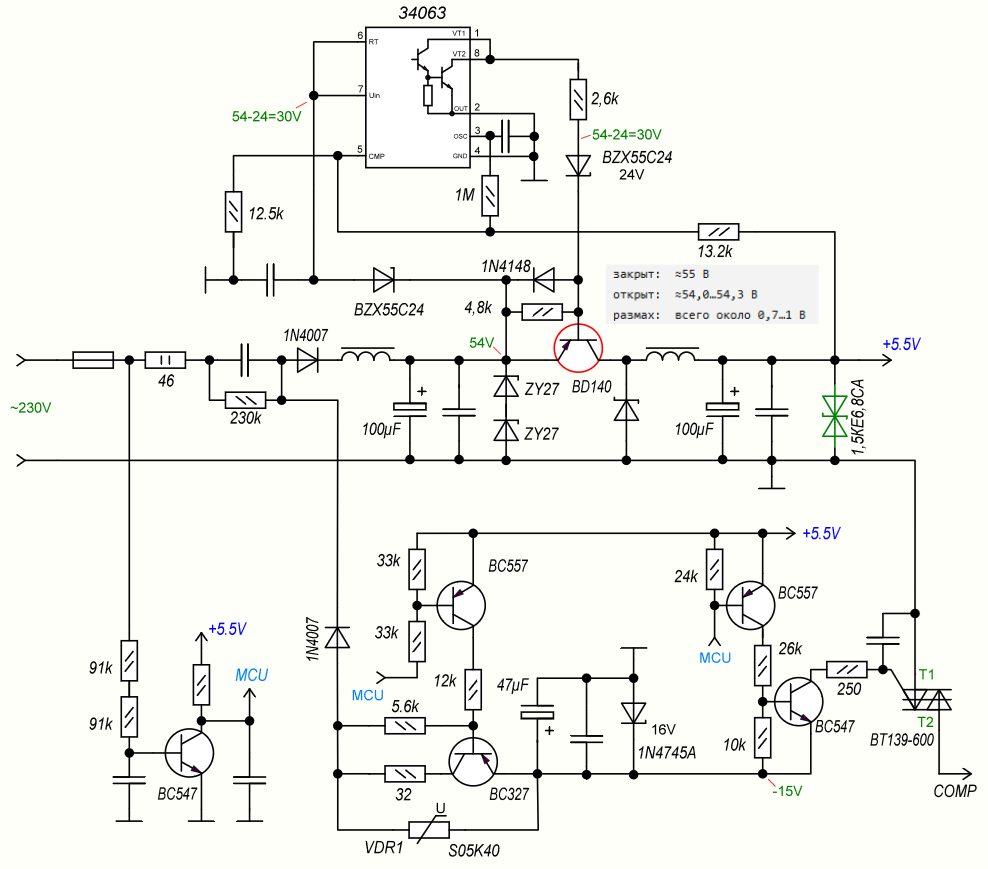
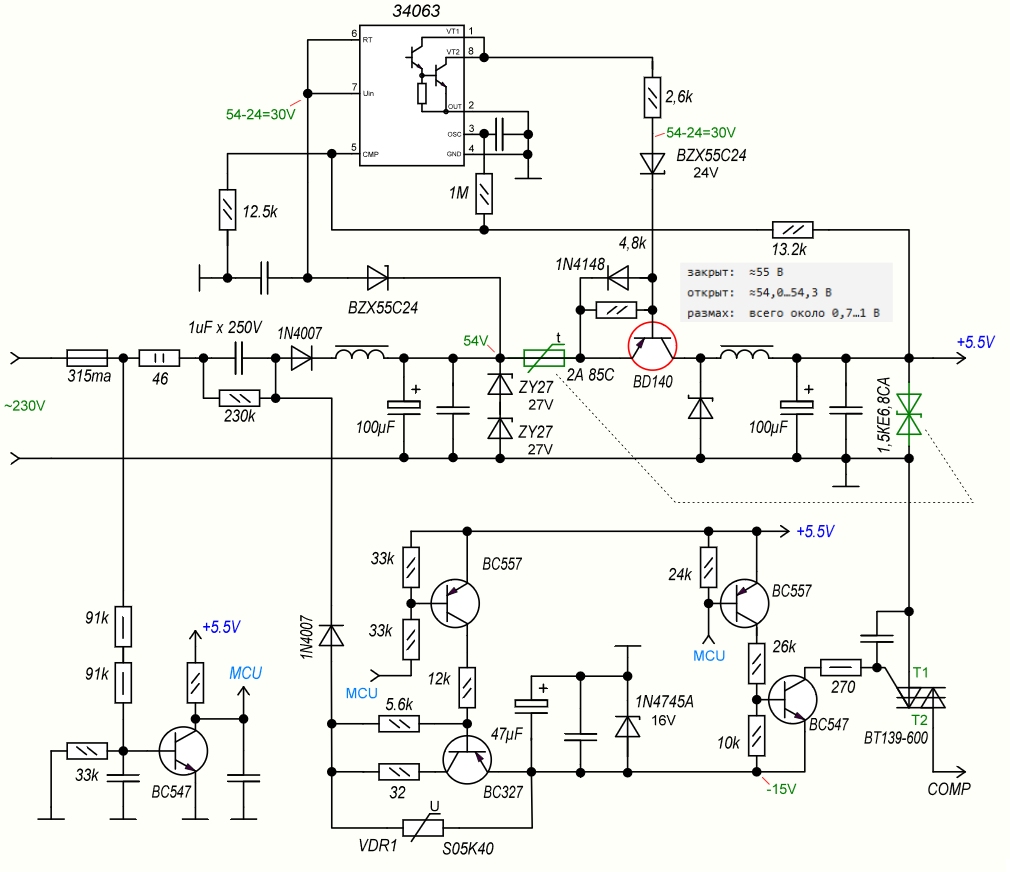
sch fix

Changed region(s): [[0.0, 0.0, 1.0, 0.9942]]

diff --git a/bosh_1994_freezer/power_supply.md b/bosh_1994_freezer/power_supply.md
@@ -1,0 +1,160 @@
+# Принцип работы блока питания платы холодильника Bosch
+
+На плате применён **бестрансформаторный источник питания с ёмкостным балластом**. Гальванической развязки от сети нет: общий провод всей электроники электрически связан с сетью, поэтому даже цепи с обозначением `+5,5 В` нельзя считать безопасными относительно земли.
+
+Входной ток ограничивается последовательным плёночным конденсатором ёмкостью 1 uF. При частоте сети 50 Hz такой конденсатор пропускает ток порядка 70 mA. Резистор 46 Ом почти не влияет на установившийся ток, но ограничивает бросок при включении и ток сетевых импульсов. Параллельный резистор 230 кОм разряжает балластный конденсатор после отключения холодильника от сети.
+
+После выпрямительного диода и фильтра формируется первичная постоянная шина напряжением около **54 В**. Два стабилитрона `ZY27`, включённые последовательно, ограничивают её примерно на этом уровне. Конденсатор 100 u сглаживает пульсации этой шины.
+
+Таким образом, первая ступень формирует относительно высоковольтную, но токоограниченную шину около 54 В, из которой уже питается импульсный понижающий преобразователь.
+
+## Понижающий преобразователь на MC34063 и внешнем транзисторе BD140
+
+Для получения напряжения `+5,5 В` применён понижающий импульсный преобразователь на хорошо известной микросхеме `MC34063`. Она содержит генератор, компаратор обратной связи, узел ограничения тока, драйвер и встроенный силовой ключ. В классической схеме понижающего преобразователя внутренний транзистор `MC34063` непосредственно коммутирует ток дросселя.
+
+В данном устройстве такое включение невозможно, поскольку преобразователь питается от шины около **54 В**, тогда как допустимое напряжение питания и выходного ключа `MC34063` составляет примерно 40 В. Поэтому микросхема здесь используется как контроллер, а коммутация высоковольтной шины возложена на внешний PNP-транзистор `BD140`.
+
+Эмиттер `BD140` подключён к шине 54 В, а коллектор — к дросселю. Когда транзистор открыт, ток поступает из высоковольтной шины в дроссель и нагрузку, а в магнитном поле дросселя накапливается энергия. После закрытия `BD140` ток дросселя не может прекратиться мгновенно и продолжает течь через обратный диод, отдавая накопленную энергию выходному конденсатору и цифровой части платы.
+
+`MC34063` контролирует выходное напряжение через делитель обратной связи. Когда напряжение на выходе ниже заданного, микросхема разрешает очередные импульсы включения внешнего ключа; при достижении установленного уровня импульсы пропускаются. Поэтому регулирование здесь происходит не как плавное линейное изменение напряжения, а дозированием отдельных порций энергии, передаваемых через дроссель. За счёт этого на выходе поддерживается напряжение около `+5,5 В`.
+
+Обычно внешний силовой транзистор в схемах на MC34063 применяют для увеличения допустимого выходного тока и мощности преобразователя. Однако в данном устройстве такое решение использовано по другой причине: напряжение входной шины около 54 В превышает допустимое напряжение встроенного ключа микросхемы. Поэтому коммутацию тока дросселя выполняет внешний PNP-транзистор BD140, рассчитанный на более высокое напряжение, а MC34063 используется как контроллер и драйвер. При этом средний ток всего источника всё равно ограничен ёмкостным балластом приблизительно на уровне 70 мА.
+
+## Питание и выходной каскад MC34063
+
+Саму `MC34063` также нельзя подключить непосредственно между шиной 54 В и общим проводом. Для ограничения напряжения на микросхеме используется стабилитрон `BZX55C24`. Он создаёт сдвиг приблизительно на 24 В относительно высоковольтной шины, поэтому напряжение на выводах питания и выходного каскада микросхемы остаётся в допустимых пределах.
+
+При напряжении шины 54 В получается ориентировочно:
+
+\[
+54 - 24 \approx 30\text{ В}
+\]
+
+Таким образом, `MC34063` работает при напряжении порядка 30 В.
+
+Выходной каскад микросхемы управляет базой `BD140` через цепь, включающую стабилитрон `BZX55C24`, резисторы 2,6 кОм и 4,8 кОм, а также диоды `1N4148`. Эта цепь нужна потому, что база внешнего PNP-транзистора находится около потенциала высоковольтной шины, тогда как внутренний выходной транзистор `MC34063` не должен испытывать напряжение 54 В.
+
+Резистор 4,8 кОм соединяет базу `BD140` с его эмиттером. При отсутствии управляющего тока он подтягивает базу к шине 54 В и удерживает транзистор закрытым. В закрытом состоянии напряжение базы практически равно напряжению эмиттера, поэтому разность \(U_{BE}\) близка к нулю.
+
+Когда выходной транзистор `MC34063` включается, через резистор 2,6 кОм и стабилитронную цепь начинает течь управляющий ток. Потенциал базы `BD140` немного понижается относительно эмиттера. При разности порядка 0,7–1 В PNP-транзистор открывается и подаёт ток в дроссель.
+
+При напряжении эмиттера около 54 В открытое состояние соответствует ориентировочному напряжению базы:
+
+\[
+U_B \approx 53{,}0\text{–}53{,}3\text{ В}
+\]
+
+Точное значение зависит от тока базы и режима работы транзистора, однако база в открытом состоянии должна быть ниже эмиттера примерно на 0,7–1 В.
+
+Стабилитрон в этой цепи создаёт необходимый сдвиг между высоковольтной частью схемы и выводами `MC34063` (база BD140 всё время остаётся около потенциала 54 В), благодаря чему внутренний выходной транзистор микросхемы работает при допустимом напряжении. Резистор 2,6 кОм ограничивает ток базы `BD140`.
+
+Таким образом, `MC34063` выполняет функции генератора, компаратора, регулятора и драйвера, но не коммутирует 54-вольтовую шину непосредственно. Основным силовым ключом служит `BD140`, а стабилитронно-резистивная цепь между ним и микросхемой обеспечивает управление внешним транзистором без превышения допустимого напряжения на `MC34063`.
+
+## Выходной фильтр 5,5 В
+
+После BD140 установлен силовой дроссель, обратный диод и выходной электролитический конденсатор.
+
+Первоначально на плате стоял конденсатор 100 uF. Установка 220 uF вместо него допустима: она уменьшает пульсации и повышает устойчивость питания цифровой части при кратковременных изменениях нагрузки.
+
+После основного выходного конденсатора может присутствовать дополнительный последовательный элемент и локальные конденсаторы, формирующие фильтр непосредственно для MCU.
+
+## Недостаток штатной схемы
+
+У схемы имеется неприятный режим отказа.
+
+Если BD140 пробьётся между коллектором и эмиттером, либо выходной каскад MC34063 зависнет в состоянии постоянного включения, импульсное регулирование прекратится. Шина 54 В окажется соединена с выходным дросселем. Дроссель препятствует быстрому изменению тока, но не блокирует постоянное напряжение. Через некоторое время напряжение на выходе начнёт расти значительно выше штатных 5,5 В.
+
+Штатная обратная связь в таком случае не поможет:
+
+- при пробитом BD140 команда «закрыть ключ» уже ничего не изменит;
+- при неисправном выходном каскаде MC34063 транзистор может оставаться открытым независимо от состояния компаратора;
+- при обрыве обратной связи контроллер может ошибочно продолжать увеличивать подачу энергии.
+
+При этом на выходе находятся заказной микроконтроллер и остальная цифровая логика, для которых даже 8–10 В могут оказаться разрушительными.
+
+## Доработка: TVS на шине 5,5 В
+
+Для защиты цифровой части параллельно выходу был установлен TVS-супрессор `1.5KE6.8CA`.
+
+```text
++5,5 В ─────┬──── питание MCU
+            │
+       1.5KE6.8CA
+            │
+общий ──────┴────
+```
+
+При штатном напряжении 5,5 В TVS практически не проводит и остаётся холодным.
+
+При повышении напряжения выше допустимого он начинает резко увеличивать ток и шунтирует выход. Поскольку ток всего источника ограничен балластным конденсатором приблизительно до 70 мА, супрессор имеет возможность удерживать напряжение на относительно безопасном уровне, не пропуская на MCU десятки вольт.
+
+Сам по себе TVS только шунтирует аварийное напряжение и при длительном отказе вынужден постоянно рассеивать мощность. Поскольку ток источника ограничен примерно 70 мА, штатный предохранительный участок платы в этой ситуации не перегорит, а супрессор способен продолжительное время оставаться в режиме ограничения и перегреваться.
+
+Поэтому дополнительно установлен **85С термопредохранитель, термически связанный с корпусом TVS**. Он включён последовательно в цепь питания преобразователя от шины 54 В. При длительном открытии супрессора его корпус нагревает термопредохранитель; после достижения температуры срабатывания предохранитель разрывает питание силового преобразователя и прекращает поступление энергии на аварийный выход.
+
+Такое сочетание образует двухступенчатую защиту:
+
+1. TVS быстро ограничивает рост напряжения на шине `+5,5 В`;
+2. термопредохранитель отключает источник, если аварийный режим не является кратковременным.
+
+Доработка повышает вероятность сохранения цифровой части при:
+
+- пробое `BD140`;
+- отказе выходного каскада `MC34063`;
+- обрыве обратной связи;
+- кратковременных выбросах на выходе.
+
+# Отрицательный источник около −15 В
+
+Отдельный узел формирует относительно общего провода отрицательное напряжение около **−14…−16 В**. Оно используется драйвером затвора силового симистора `BT139-600`.
+
+Отрицательные полупериоды сетевого напряжения поступают через диод `1N4007`. После него образуется отрицательное пульсирующее напряжение, из которого через резистор 32 Ом и проходной PNP-транзистор `BC327` заряжается электролитический конденсатор 47 мкФ. Положительный вывод конденсатора соединён с общим проводом, а отрицательный — с выходной шиной `−15 В`.
+
+Стабилитрон `1N4745A` включён параллельно выходу и задаёт предельную разность потенциалов между общим проводом и отрицательной шиной. Его номинальное напряжение составляет около 16 В, поэтому выход удерживается приблизительно на уровне:
+
+\[
+U_{-} \approx -16\text{ В}
+\]
+
+`BC327` работает как последовательный регулирующий и ограничивающий элемент. Его эмиттер подключён к выходной шине `−15 В`, а коллектор получает более отрицательное выпрямленное напряжение через резистор 32 Ом. Когда база `BC327` смещена в отрицательную сторону относительно эмиттера, транзистор открывается и заряжает конденсатор 47 мкФ. При смещении базы к общему проводу транзистор закрывается и прекращает заряд.
+
+Таким образом, стабилизация выполняется совместно двумя механизмами:
+
+- `1N4745A` непосредственно ограничивает выходное напряжение примерно до 16 В;
+- транзистор `BC327` уменьшает ток зарядки и не позволяют стабилитрону постоянно принимать на себя весь доступный ток источника.
+
+Варистор `S05K40` подключён между входной отрицательной точкой и выходом `−15 В`, то есть фактически параллельно цепи коллектор–эмиттер `BC327` вместе с его последовательным резистором. Такое включение указывает, что его основное назначение — ограничение кратковременного перенапряжения на проходном транзисторе.
+
+Для `BC327` допустимое постоянное напряжение коллектор–эмиттер составляет порядка 45 В. При сетевых выбросах, при незаряженном конденсаторе 47 мкФ или при резком прекращении тока разность между входом выпрямителя и шиной `−15 В` может превысить нормальное значение. Варистор в этот момент переходит в проводящее состояние и шунтирует импульс, уменьшая нагрузку на `BC327`.
+
+Маркировка `S05K40` не означает точную стабилизацию на 40 В. Число 40 относится к классу допустимого длительного переменного напряжения варистора; его собственное варисторное напряжение и напряжение ограничения выше. Поэтому корректнее говорить, что он предназначен для защиты `BC327` от импульсных перенапряжений, а не гарантирует жёсткое ограничение \(U_{CE}\) ровно на уровне 40 или 45 В.
+
+## Драйвер симистора
+
+Шина `−15 В` используется для формирования отрицательного тока затвора симистора относительно его электрода `A1`, соединённого с общим проводом схемы. MCU работает от `+5,5 В` и напрямую обеспечить такой ток не может, поэтому между ним и затвором установлен транзисторный драйвер.
+
+При команде MCU драйвер открывает нижний транзистор и через резистор 270 Ом стягивает затвор симистора в сторону отрицательной шины. Возникает отрицательный ток затвора, достаточный для открытия `BT139-600`.
+
+В зависимости от полярности напряжения между `A2` и `A1` симистор при таком направлении тока затвора работает во II или III квадранте. Это позволяет управлять нагрузкой на обеих полуволнах сети, не нагружая непосредственно вывод микроконтроллера.
+
+# Формирователь сигнала сетевой частоты
+
+Слева внизу расположен ещё один узел, который напрямую не относится к формированию питающих напряжений.
+
+Сетевое напряжение поступает через два последовательно включённых резистора по 91 кОм на базу транзистора BC547. Последовательное включение двух резисторов делит между ними напряжение и рассеиваемую мощность.
+
+Конденсатор между базой и общим проводом подавляет короткие импульсные помехи.
+
+Коллектор BC547 подключён к входу MCU и подтянут резистором к +5,5 В.
+
+Во время одной полуволны сети транзистор открывается и притягивает вход MCU к низкому уровню. Во время противоположной полуволны он закрывается, и подтягивающий резистор формирует высокий уровень.
+
+На входе микроконтроллера появляется прямоугольный сигнал, синхронизированный с сетью частотой 50 Гц:
+
+Вероятные назначения этого сигнала: определение полярности или фазы сетевого напряжения для синхронизация включения симистора (нагрузки, компрессора);
+
+Это не точный детектор нуля: транзистор переключается при достижении порога база–эмиттер, поэтому фронт смещён относительно математического перехода сети через ноль. Но для синхронизации управления компрессором и получения опорных импульсов такой схемы достаточно.
+
+# Общая структура платы
+
+Схема компактна и экономична, но полностью неразвязанная. Её интересная особенность — применение MC34063 с внешним высоковольтным PNP-ключом и стабилитронными цепями смещения, позволяющими управлять преобразованием из 54 В в 5,5 В при ограниченном токе ёмкостного источника.

diff --git a/bosh_1994_freezer/README.md b/bosh_1994_freezer/README.md
@@ -1,0 +1,79 @@
+# Ремонт блока питания холодильника Bosch 1994 года
+
+Этот каталог содержит фотографии, материалы реверс-инжиниринга и описание ремонта электронной платы холодильника Bosch 1994 года выпуска.
+
+Плата проработала около 32 лет. Основной причиной неисправности стали высохшие электролитические конденсаторы и длительный локальный перегрев отдельных элементов, из-за которого плата потемнела, а часть печатных проводников начала отслаиваться.
+
+## Исходное состояние платы
+
+### `IMG_1340_adj-1.jpg`
+
+Вид электронной платы со стороны элементов.
+
+![Вид платы со стороны элементов](IMG_1340_adj-1.jpg)
+
+### `IMG_1340_adj-2.jpg`
+
+Вид платы со стороны пайки.
+
+![Вид платы со стороны пайки](IMG_1340_adj-2.jpg)
+
+Эти же два изображения используются как подложки для реверса печатной платы в Sprint-Layout. По ним восстанавливались расположение элементов, соединения печатных проводников и общая структура схемы.
+
+## Восстановленная схема
+
+### `sch_ac-dc.png`
+
+Фрагмент восстановленной схемы электронной платы — источник питания.
+
+Сама схема выполнена в sPlan, а PNG-файл добавлен для быстрого просмотра и использования в качестве превью.
+
+![Схема источника питания](sch_ac-dc.png)
+
+Описание принципа работы схемы находится в отдельном файле:
+
+- [`power_supply.md`](power_supply.md)
+
+## Выполненный ремонт
+
+В ходе ремонта были выполнены следующие работы:
+
+- заменены все три электролитических конденсатора, высохшие за 32 года эксплуатации;
+- наиболее горячие элементы подняты над поверхностью платы для уменьшения локального нагрева текстолита;
+- три сильно нагревающихся резистора заменены на резисторы мощностью 0,5 Вт;
+- на выходе источника `+5,5 В` добавлена защита на TVS-супрессоре;
+- в цепь защиты добавлен термопредохранитель.
+
+### `pcb_mod_face-2.jpg`
+
+Вид платы со стороны элементов после ремонта и установки дополнительных защитных компонентов.
+
+![Плата после ремонта](pcb_mod_face-2.jpg)
+
+### `pcb_mod_back-1.jpg`
+
+Обратная сторона платы после ремонта.
+
+На фотографии видна фиксация загнутых выводов заменённых элементов суперклеем. Такое решение применено из-за отслоения части печатных проводников, вызванного многолетним нагревом платы.
+
+![Обратная сторона платы после ремонта](pcb_mod_back-1.jpg)
+
+## Тепловой контроль
+
+### `heat-map-1.png`
+
+Тепловое изображение платы, сделанное PIR-камерой. На снимке видны наиболее горячие элементы и их температура.
+
+![Тепловая карта платы 1](heat-map-1.png)
+
+### `heat-map-2.png`
+
+Второе тепловое изображение платы после включения. Используется для оценки распределения температуры и поиска наиболее нагруженных элементов.
+
+![Тепловая карта платы 2](heat-map-2.png)
+
+## Предупреждение по безопасности
+
+В блоке питания используется бестрансформаторная схема с ёмкостным балластом. Гальваническая развязка от сети отсутствует, поэтому общий провод платы и низковольтные цепи могут находиться под опасным сетевым потенциалом относительно земли.
+
+Проверку и измерения следует выполнять только с соблюдением требований электробезопасности, желательно через разделительный трансформатор.
